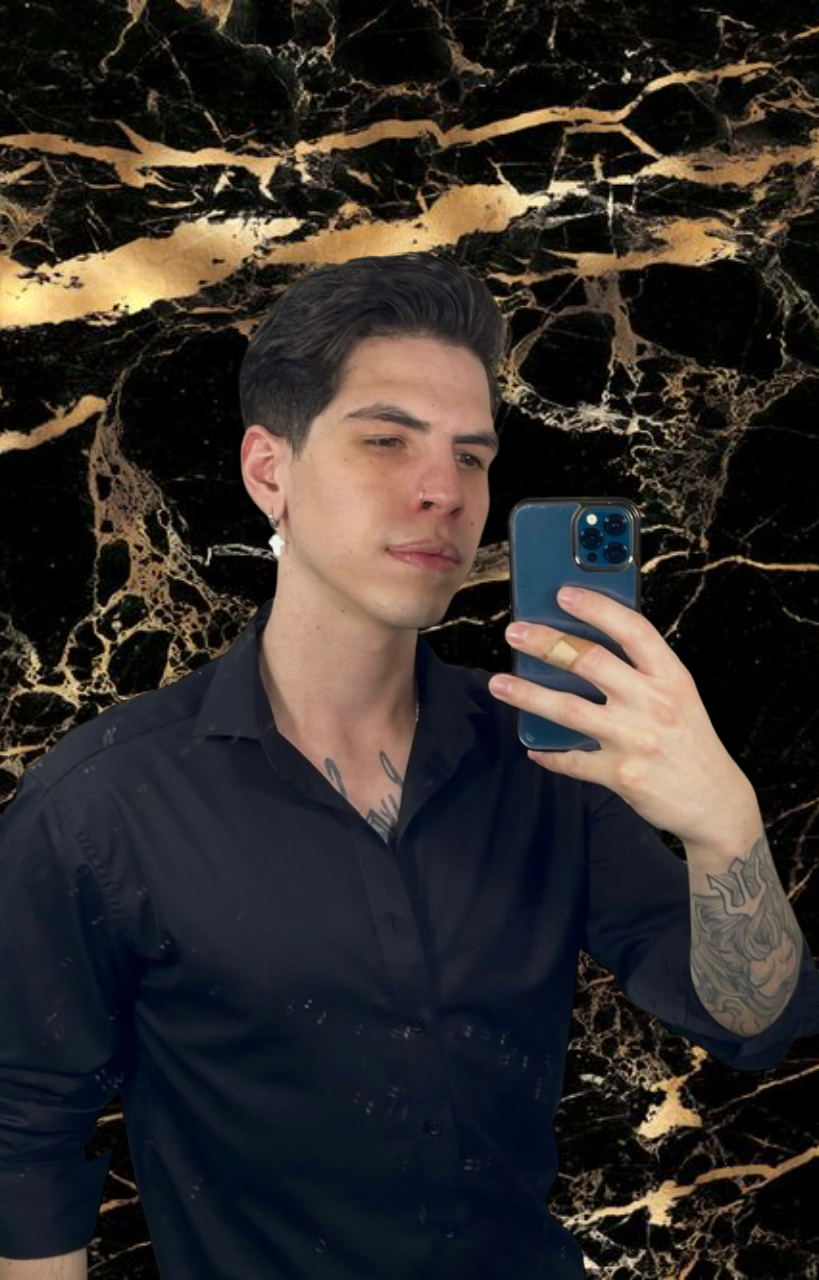
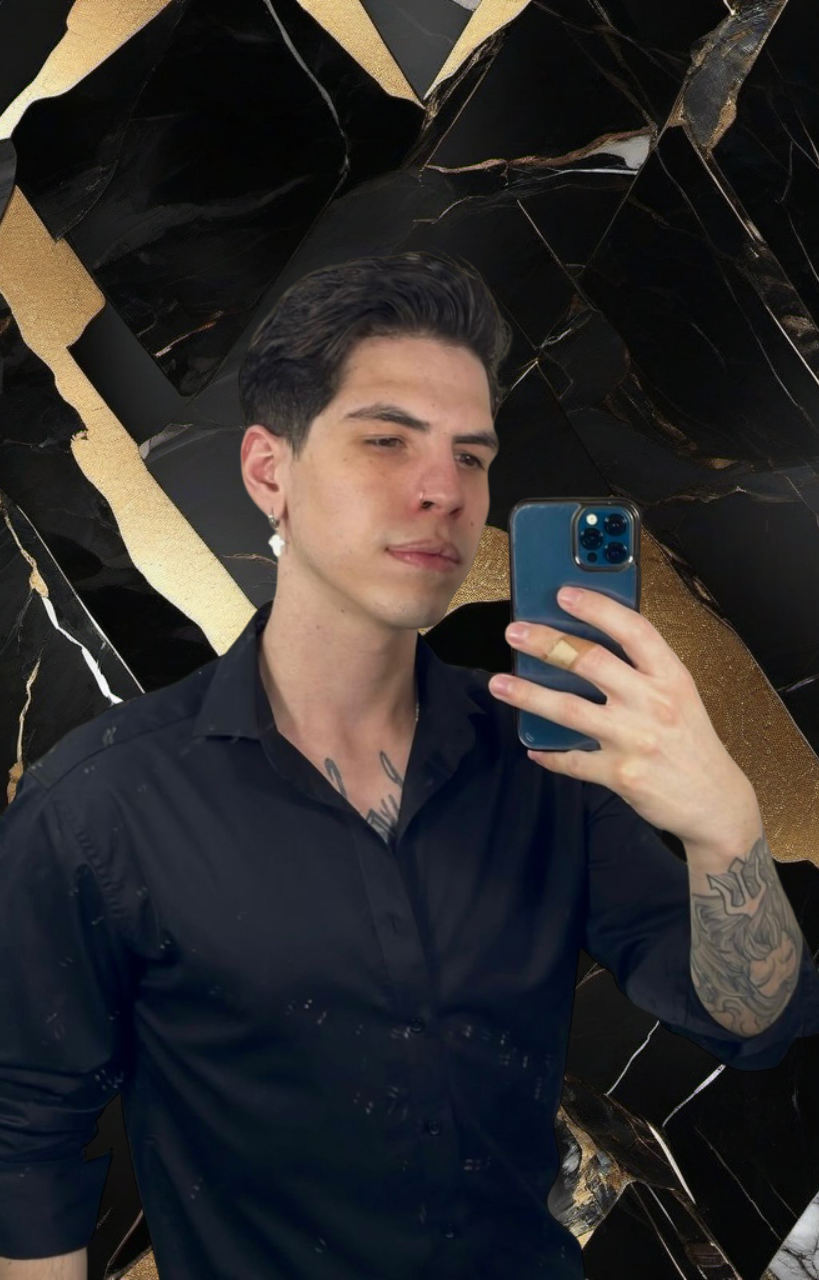
team members images

diff --git a/data/team.js b/data/team.js
@@ -19,7 +19,7 @@ export const teamMembers = [
   {
     name: "Diego Alvarez",
     role: "Designer | Ilustrador | Gestor de trafego | Co-fundador",
-    image: "/assets/images/team/diego6.png",
+    image: "/assets/images/team/diego3.png",
     socials: [
       {
         platform: "Instagram",
@@ -36,7 +36,7 @@ export const teamMembers = [
   {
     name: "Gustavo Ribeiro",
     role: "Executivo comercial | Gestão de projetos | Social Media | Ads | Marketing",
-    image: "/assets/images/team/gustavo3.png",
+    image: "/assets/images/team/gustavo5.png",
     socials: [
       {
         platform: "Instagram",
@@ -53,7 +53,7 @@ export const teamMembers = [
   {
     name: "Kaiky Alvarez",
     role: "Editor de video | Copywriter | Co-fundador",
-    image: "/assets/images/team/kaiky.png",
+    image: "/assets/images/team/kaiky5.png",
     socials: [
       {
         platform: "Instagram",

diff --git a/components/homes/home-1/Team.jsx b/components/homes/home-1/Team.jsx
@@ -15,12 +15,13 @@ export default function Team() {
               ”
             </div>
             <p>
-              Nós temos uma equipe dedicada que transforma ideias em resultados.
+              A Cnp Midia tem uma equipe dedicada que transforma ideias em
+              resultados.
             </p>
             <footer>
               <div className="section-line mb-10" />
-              Thiago Costa
-              <div className="small">Programador, co-fundador</div>
+              Luciano A.
+              <div className="small">CEO - La Costa Corretora de Seguros</div>
             </footer>
           </blockquote>
         </div>
